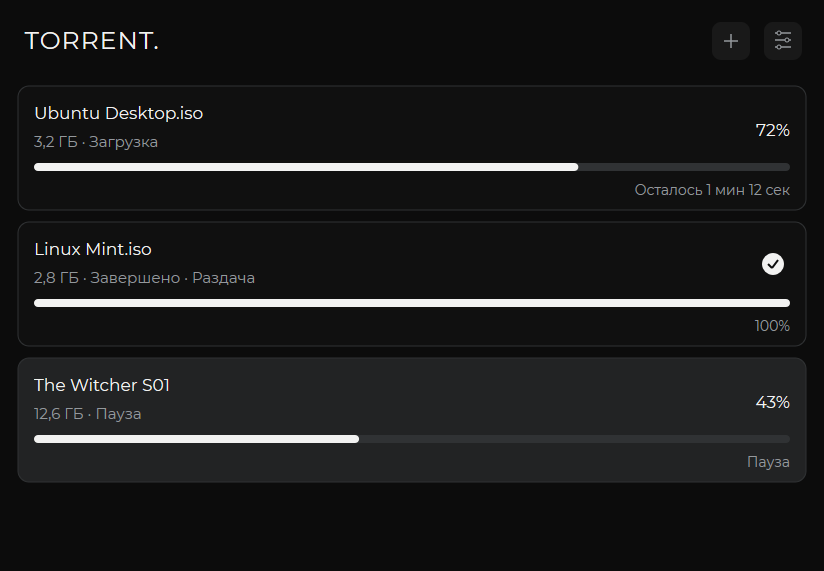
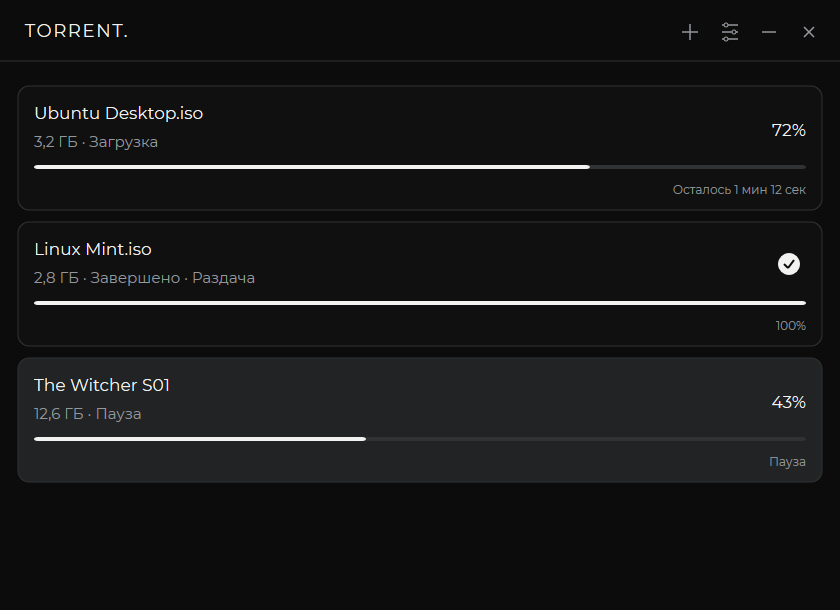
Document CONNECT UI validation and pending approved gear asset

diff --git a/README.md b/README.md
@@ -7,7 +7,7 @@
 <p align="center">A lightweight, native BitTorrent client for Windows 11.</p>
 
 <p align="center">
-  <a href="https://github.com/sanderstripa/torrent/releases/tag/v0.1.7">Download v0.1.7</a>
+  <a href="https://github.com/sanderstripa/torrent/releases/tag/v0.1.8">Download v0.1.8</a>
   &nbsp;·&nbsp;
   <a href="https://github.com/sanderstripa/torrent/actions/workflows/windows.yml">Windows builds</a>
   &nbsp;·&nbsp;
@@ -25,22 +25,28 @@ Torrent keeps the interface focused on your downloads: a name, size, status, pro
 
 ## Download
 
-**[Download the Windows installer](https://github.com/sanderstripa/torrent/releases/download/v0.1.7/Torrent-Setup.exe)**
+**[Download the Windows installer](https://github.com/sanderstripa/torrent/releases/download/v0.1.8/Torrent-Setup.exe)**
 
-Prefer to run the application without installing it? Download [Torrent-Windows-x64.zip](https://github.com/sanderstripa/torrent/releases/download/v0.1.7/Torrent-Windows-x64.zip), extract it and run `app/Torrent.exe`. Keep the included dependency licenses with the application. The ZIP version still stores settings and session data in your Windows user profile.
+Prefer to run the application without installing it? Download [Torrent-Windows-x64.zip](https://github.com/sanderstripa/torrent/releases/download/v0.1.8/Torrent-Windows-x64.zip), extract it and run `app/Torrent.exe`. Keep the included dependency licenses with the application. The ZIP version still stores settings and session data in your Windows user profile.
 
-| v0.1.7 package | Size |
+| v0.1.8 package | Size |
 |---|---:|
 | Installer | About 3.7 MB |
 | Application, dependency licenses and uninstaller | About 10.1 MB |
 
 The installer works for the current user without administrator privileges. It registers `.torrent` and magnet handlers with Windows. Select Torrent in Windows **Default apps** or **Open with** to make it your preferred handler.
 
-Version **0.1.7 is the current release**. The installer currently uses Russian text; the client offers Russian and English in Settings.
+Version **0.1.8 is the current release**. The installer currently uses Russian text; the client offers Russian and English in Settings.
+
+## CONNECT UI System
+
+Version 0.1.8 adds a custom header with minimize and close, shared 36px controls, 8px radii, keyboard focus outlines, compact runtime notices and 4px progress. Torrent's existing palette, Montserrat, window dimensions, engine and list density are preserved. System theme follows Windows; RU/EN and theme remain in Settings.
+
+The approved gear #8 source was unavailable. The existing settings symbol remains without a background tile; no substitute gear is introduced. See [implementation and asset status](docs/CONNECT-UI-SYSTEM.md).
 
 ## Interface
 
-Version 0.1.7 uses neutral off-white and near-black themes, fine gray borders, monochrome buttons and embedded Montserrat typography inspired by the supplied references. Uppercase dialog headings use subtle letter spacing. The compact 380 × 460 installer follows the Windows app theme; its typography matches the client. The product icon remains unchanged. Montserrat is bundled under the SIL Open Font License; no system font installation is required.
+Version 0.1.8 uses neutral off-white and near-black themes, fine gray borders, monochrome buttons and embedded Montserrat typography inspired by the supplied references. Uppercase dialog headings use subtle letter spacing. The compact 380 × 460 installer follows the Windows app theme; its typography matches the client. The product icon remains unchanged. Montserrat is bundled under the SIL Open Font License; no system font installation is required.
 
 Settings apply and save immediately without Apply or Cancel buttons. The language and theme update the open settings window and the client. Incomplete folder input keeps the last valid absolute path. File selection retains its separate Apply/Cancel workflow.
 
@@ -67,7 +73,7 @@ These images are captured from the compiled Windows UI with isolated sample data
 - Select individual files and assign low, normal or high download priorities.
 - Fetch magnet metadata before choosing which files to download.
 - Restore downloads and file selections after restarting the application.
-- Switch between light and dark themes, and Russian and English.
+- Choose System, Light or Dark in Settings, and switch between RU and EN.
 - Use four settings only: download folder, action on adding, theme and language.
 
 No ads, Windows startup entry or notification system. There is one add button and no seed, peer or speed statistics in the main list.

diff --git a/docs/CONNECT-UI-SYSTEM.md b/docs/CONNECT-UI-SYSTEM.md
@@ -1,0 +1,38 @@
+# CONNECT UI System v1.0 in Torrent
+
+Reference: [approved specification](https://github.com/sanderstripa/connect/blob/connect-ui-system-v1-reference/docs/CONNECT-UI-SYSTEM-v1.md).
+
+Torrent retains its own layout, 840 × 610 outer window dimensions, 136px torrent row pitch, file selection workflow and four settings. The torrent engine and approved product icon are unchanged. Settings remain immediate and persistent.
+
+## Preserved design tokens
+
+| Role | Light | Dark |
+|---|---|---|
+| Background | `#F5F5F4` | `#0C0C0C` |
+| Surface | `#FAFAFA` | `#101010` |
+| Text | `#17191C` | `#F2F2F1` |
+| Secondary text | `#777C81` | `#94989C` |
+| Border | `#DADBD9` | `#303234` |
+| Selected | `#E8E9E7` | `#222324` |
+| Progress track | `#E0E1DE` | `#303234` |
+
+The Montserrat TTF is byte-for-byte unchanged. The invariant check also protects Torrent's palette functions and initial outer dimensions. CONNECT's `#F7F7F5 / #0C0C0D`, Screenshot's `#F5F5F5 / #0A0A0A`, and Screencast's `#F7F7F5 / #0B0B0C` were reviewed in their reference sources, not applied to Torrent. No files in those repositories are changed.
+
+## Implemented
+
+- A single custom 62px header with TORRENT. at the left, existing add/settings actions, minimize and close at the right. No native caption, redundant title icon, maximize button or maximize command. Drag, edge resizing, taskbar icon, DPI resize path and Alt+F4 remain supported.
+- Shared 8px control radius, 36px inputs/selects and modal action buttons, 13px content text, 12px helper text, 18px headings and 2px keyboard focus outlines. File row density and dialog dimensions are retained.
+- Contrasting monochrome primary actions, neutral secondary actions, subtle press/hover with 140ms transitions respecting Windows reduced-motion settings.
+- Four-pixel monochrome progress; existing checkbox semantics for file selection. Shared switch/slider primitives are available but no unused controls are shown in Torrent.
+- Compact custom runtime error notices with a real error indicator and the same modal action styling. Startup failures before the application window exists retain a native emergency fallback; standard OS file/folder pickers remain OS dialogs.
+- System/Light/Dark and RU/EN inside settings. System mode reads Windows AppsUseLightTheme and responds to theme notifications. Old saved Light=0 and Dark=1 settings keep their meaning; System=2 is added without changing the file structure.
+
+## Missing approved asset
+
+The published reference and CONNECT source trees did not contain the original approved gear #8 or an approved exact vector of it. The pre-existing Torrent settings symbol is retained without its background tile. It is explicitly **not claimed to be gear #8**. No substitute gear is drawn. Applying the exact approved gear remains dependent on receiving that asset (and its vector approval if reconstruction is required).
+
+## Verification
+
+Windows CI builds the client and installer, checks the preserved design tokens, runs engine and UI regressions, and captures both themes. UI checks cover caption/maximize removal, outer dimensions, header hit testing, minimize/settings actions, settings persistence, System theme updates without modifying Windows preferences, RU/EN, custom notices, torrent selection and keyboard actions.
+
+Physical monitor/DPI transitions and installation over the real user profile require separate manual verification. Screenshot PR #1 is untouched; this implementation is isolated in Torrent's own PR.
